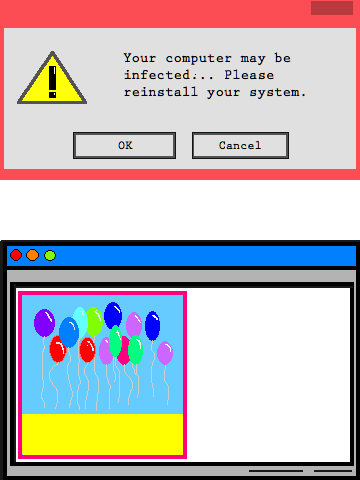
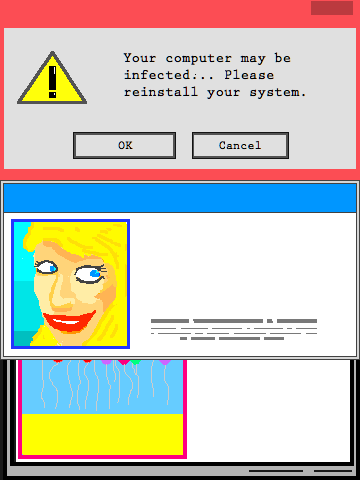
add bitmap font

Changed region(s): [[0.0, 0.375, 1.0, 0.75]]

diff --git a/src/ballsosimple/popups.js b/src/ballsosimple/popups.js
@@ -4,17 +4,19 @@ export function initPopups() {
   this._popups = this.add.group();
 
   this._popups.createMultiple(20, 'popups', 0, false);
-  this._popups.forEach(popup => addButton.call(this, popup));
+  this._popups.forEach(popup => makePopup.call(this, popup));
 
   this.time.events.add(Phaser.Timer.SECOND * 4, showPopup, this);
 }
 
-function addButton(popup) {
+function makePopup(popup) {
+  const text = this.add.bitmapText(0, 0, 'bmp1', '', 32);
   const button = this.add.button(6, 6, 'close1', () => popup.kill());
+  popup.addChild(text);
   popup.addChild(button);
 }
 
-export function showPopup() {
+function showPopup() {
   const popup = this._popups.getFirstDead();
   if (!popup) {
     return;
@@ -24,6 +26,11 @@ export function showPopup() {
     this.rnd.between(0, 100),
     this.rnd.between(0, 200));
   popup.frame = this.rnd.between(0, 1);
+
+  const text = popup.children[0];
+  text.text = 'DESIRE TO CRAVE\nCall us now!';
+  text.x = 145;
+  text.y = 50;
 
   this.time.events.add(Phaser.Timer.SECOND * 2, showPopup, this);
 }

diff --git a/src/ballsosimple/preloader.js b/src/ballsosimple/preloader.js
@@ -7,7 +7,10 @@ export const Preloader = {
     this.load.image('ball', '../assets/ball.png');
     this.load.image('healthbar', '../assets/healthbar.png');
     this.load.image('close1', '../assets/close1.png');
-    this.load.spritesheet('popups', '../assets/popups.png', 360, 240);
+    this.load.spritesheet('popups', '../assets/popups.png', 360, 180);
+
+    this.load.bitmapFont(
+      'bmp1', 'assets/fonts/bmp1.png', 'assets/fonts/bmp1.fnt');
   },
 
   create: function() {
